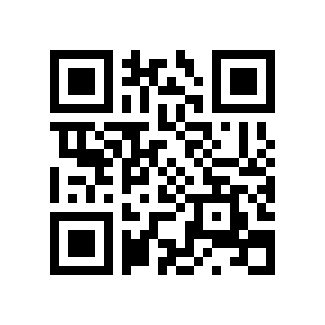
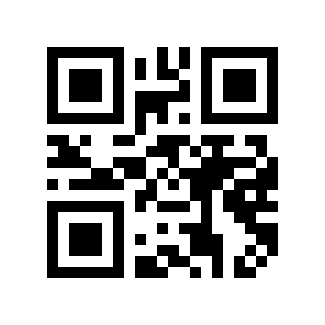
1.1.1 | Update QRCode

Changed region(s): [[0.1231, 0.1231, 0.8615, 0.8615], [0.1231, 0.5538, 0.1538, 0.5846]]

diff --git a/client/src/main/java/service/QRCodeService.java b/client/src/main/java/service/QRCodeService.java
@@ -2,17 +2,21 @@ package service;
 
 import javax.swing.BorderFactory;
 import javax.swing.ImageIcon;
+import javax.swing.JDialog;
 import javax.swing.JFrame;
 import javax.swing.JLabel;
+
 import modal.GenerateQRCode;
 import java.awt.Color;
-
-// para gerar o QRCode >> new QRCodeService().fFrame(idDoPc, "infos");
+import java.awt.FlowLayout;
+import java.awt.event.MouseEvent;
+import java.awt.event.MouseListener;
 
 public class QRCodeService extends JFrame {
 	private static final long serialVersionUID = 9022142288376442819L;
 
 	JFrame frame = new JFrame();
+	JDialog jdialog = new JDialog(frame, true);
 
 	public void fFrame(Integer id, String serial) {
 		new GenerateQRCode(serial);
@@ -27,7 +31,45 @@ public class QRCodeService extends JFrame {
 		JLabel qrcode = new JLabel(icon);
 		qrcode.setSize(10, 10);
 		qrcode.setBorder(BorderFactory.createLineBorder(Color.BLACK));
+		qrcode.addMouseListener(new MouseListener() {
+
+			@Override
+			public void mouseReleased(MouseEvent e) {
+				// TODO Auto-generated method stub
+
+			}
+
+			@Override
+			public void mousePressed(MouseEvent e) {
+				// TODO Auto-generated method stub
+
+			}
+
+			@Override
+			public void mouseExited(MouseEvent e) {
+				// TODO Auto-generated method stub
+
+			}
+
+			@Override
+			public void mouseEntered(MouseEvent e) {
+				// TODO Auto-generated method stub
+
+			}
+
+			@Override
+			public void mouseClicked(MouseEvent e) {
+				// TODO Auto-generated method stub
+				jdialog.setVisible(true);
+			}
+		});
 		frame.add(qrcode);
+
+		jdialog.setSize(300, 300);
+		jdialog.setLayout(new FlowLayout());
+		jdialog.setLocationRelativeTo(null);
+		jdialog.setDefaultCloseOperation(JDialog.DISPOSE_ON_CLOSE);
+		jdialog.getContentPane().setBackground(Color.white);
 
 		frame.setVisible(true);
 

diff --git a/client/src/main/java/modal/GenerateQRCode.java b/client/src/main/java/modal/GenerateQRCode.java
@@ -6,9 +6,7 @@ import java.awt.image.BufferedImage;
 import java.io.File;
 import java.io.IOException;
 import java.util.Hashtable;
-
 import javax.imageio.ImageIO;
-
 import com.google.zxing.BarcodeFormat;
 import com.google.zxing.EncodeHintType;
 import com.google.zxing.WriterException;
@@ -59,5 +57,4 @@ public class GenerateQRCode {
 		}
 		ImageIO.write(image, fileType, qrFile);
 	}
-
 }

diff --git a/client/src/main/java/application/Run.java b/client/src/main/java/application/Run.java
@@ -1,10 +1,11 @@
 package application;
 
-import helpers.Initialize;
+//import helpers.Initialize;
+import service.QRCodeService;
 
 public class Run {
 	public static void main(String[] args) {
-		Initialize.start();
-
+		//Initialize.start();
+		new QRCodeService().fFrame(12, "3243242");
 	}
 }
